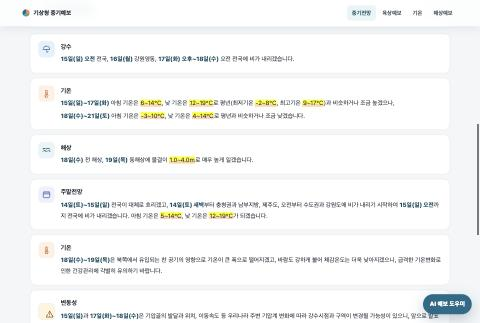
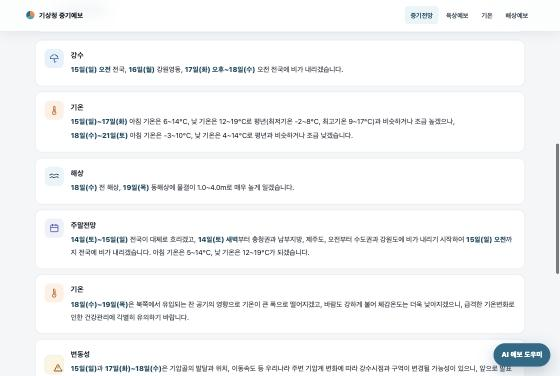
기후테크 프로젝트 중급: 중기전망 형광펜 효과 삭제
- 숫자 범위 형광펜과 관련 스타일·애니메이션 제거, 날짜 굵게 표시만 유지
- README·VERIFICATION·스크린샷 갱신

diff --git a/static/styles.css b/static/styles.css
@@ -95,14 +95,12 @@ nav{display:flex;gap:.25rem}nav a{text-decoration:none;color:#4d5964;padding:.55
 .chart-wrap{position:relative}
 .guide{stroke:#17212b;stroke-width:1;stroke-dasharray:3 3;opacity:0;transition:opacity .15s}.col:hover .guide{opacity:.45}.hit{fill:transparent;cursor:crosshair}
 .tip{position:absolute;transform:translateX(-50%);background:#17212b;color:#fff;font-size:.78rem;font-weight:700;padding:.45rem .65rem;border-radius:8px;white-space:nowrap;pointer-events:none;box-shadow:0 8px 24px rgba(0,0,0,.18);z-index:2}
-/* 중기전망 주제 카드 + 형광펜 */
+/* 중기전망 주제 카드 */
 .ol-grid{display:grid;gap:.75rem;margin-bottom:.5rem}
 .ol-card{display:grid;grid-template-columns:auto 1fr;gap:1rem;background:#fff;border:1px solid var(--line);border-radius:16px;padding:1.2rem 1.3rem}
 .ol-icon{width:44px;height:44px;border-radius:12px;display:grid;place-items:center;background:#e9f4f6;color:var(--blue-dark)}.ol-icon .ui-ic{width:24px;height:24px}
 .ol-icon.umbrella{background:#e6f0fa;color:#1f6fae}.ol-icon.thermo{background:#fff1e6;color:#c4621d}.ol-icon.calendar{background:#eef0fb;color:#4a52a8}.ol-icon.alert{background:#fff4df;color:#9a5b12}
 .ol-body h3{margin:.1rem 0 .35rem;font-size:1.05rem}.ol-body p{margin:.2rem 0;line-height:1.85}
-mark.hl{background-image:linear-gradient(transparent 58%,#ffe58a 58%);background-repeat:no-repeat;background-size:100% 100%;color:inherit;padding:0 .1em;border-radius:2px}
-mark.hl-num{background-image:linear-gradient(transparent 58%,#ffd3b0 58%)}
 /* 버튼·카운트다운·헤더 */
 .primary{display:inline-flex;align-items:center;justify-content:center;gap:.45rem;transition:background .2s,transform .15s var(--ease)}.primary:active{transform:scale(.97)}
 .btn-ic{width:17px;height:17px;fill:none;stroke:currentColor;stroke-width:2.2;stroke-linecap:round;stroke-linejoin:round}
@@ -120,7 +118,6 @@ mark.hl-num{background-image:linear-gradient(transparent 58%,#ffd3b0 58%)}
   .enter .gauge-fill,.enter .wave-fill{animation:growX .8s var(--ease) both;animation-delay:calc(var(--i,0)*45ms + 250ms)}
   .reveal{opacity:0;transform:translateY(14px);transition:opacity .6s var(--ease),transform .6s var(--ease)}.reveal.in{opacity:1;transform:none}
   .ol-card.reveal{transition-delay:calc(var(--i)*70ms)}
-  mark.hl{transition:background-size .9s var(--ease) .35s}.reveal:not(.in) mark.hl{background-size:0% 100%}
   .tabpanel.swap{animation:fadeUp .35s var(--ease)}
   .acc[open] .acc-body{animation:fadeUp .35s var(--ease)}
   .primary.loading .btn-ic{animation:spin .8s linear infinite}

diff --git a/static/app.js b/static/app.js
@@ -368,11 +368,10 @@ function parseOutlook(text){
   }
   return secs;
 }
-// 원문에 이미 있는 표현만 강조한다: 날짜는 굵게, 기온·물결 등 숫자 범위에만 형광펜(이스케이프한 뒤 적용).
+// 원문에 이미 있는 날짜 표현만 굵게 표시한다(이스케이프한 뒤 적용). 문장은 바꾸지 않는다.
 function highlight(escaped){
   return escaped
-    .replace(/(\d{1,2}일\([월화수목금토일]\)(?:\s*(?:오전|오후|새벽|아침|낮|밤))?(?:\s*~\s*\d{1,2}일\([월화수목금토일]\))?)/g,'<strong class="dt">$1</strong>')
-    .replace(/(-?\d+(?:\.\d+)?\s*~\s*-?\d+(?:\.\d+)?\s*(?:℃|°C|mm|m)(?![a-z]))/g,'<mark class="hl hl-num">$1</mark>');
+    .replace(/(\d{1,2}일\([월화수목금토일]\)(?:\s*(?:오전|오후|새벽|아침|낮|밤))?(?:\s*~\s*\d{1,2}일\([월화수목금토일]\))?)/g,'<strong class="dt">$1</strong>');
 }
 function renderOutlook(r){
   const text=r.data?.text;
@@ -382,7 +381,7 @@ function renderOutlook(r){
     const secs=parseOutlook(text);
     body=`<div class="ol-grid">${secs.map((s,i)=>{const icon=(TOPIC_ICON.find(([re])=>re.test(s.topic))||[null,"info"])[1];
       return `<article class="ol-card reveal" style="--i:${i}"><div class="ol-icon ${icon}">${ui(icon)}</div><div class="ol-body"><h3>${esc(s.topic)}</h3>${s.lines.map(l=>`<p>${highlight(esc(l))}</p>`).join("")}</div></article>`;}).join("")}</div>
-    <p class="small">기상청 원문을 표시(○, *) 기준으로 주제별 카드로 나눈 것입니다. 문장은 바꾸지 않았고, 원문에 있는 날짜는 굵게, 숫자 범위에만 형광펜을 칠했습니다. 수치 그래프로 바꾸지 않습니다.</p>
+    <p class="small">기상청 원문을 표시(○, *) 기준으로 주제별 카드로 나눈 것입니다. 문장은 바꾸지 않았고, 원문에 있는 날짜만 굵게 표시했습니다. 수치 그래프로 바꾸지 않습니다.</p>
     <details class="acc raw"><summary>${ui("doc")}원문 전체 그대로 보기</summary><div class="acc-body"><p class="outlook-text">${esc(text)}</p></div></details>`;
   }
   $("results").innerHTML=metaPanel(r)+body+rawDetails(r);

diff --git a/static/index.html b/static/index.html
@@ -5,7 +5,7 @@
   <meta name="viewport" content="width=device-width,initial-scale=1">
   <meta name="description" content="기상청 중기예보 네 기능을 지역별로 조회하고 그래프와 표로 확인합니다.">
   <title>기상청 중기예보</title>
-  <link rel="stylesheet" href="/styles.css?v=29">
+  <link rel="stylesheet" href="/styles.css?v=31">
 </head>
 <body>
   <a class="skip" href="#main">본문으로 건너뛰기</a>
@@ -85,6 +85,6 @@
   </aside>
   <footer>출처: 기상청 중기예보 조회서비스 · 공공데이터포털</footer>
   <script src="/combo.js?v=30" defer></script>
-  <script src="/app.js?v=29" defer></script>
+  <script src="/app.js?v=31" defer></script>
 </body>
 </html>

diff --git a/README.md b/README.md
@@ -211,14 +211,14 @@ GEMINI_MODEL=gemini-3.8-flash
 | 페이지 | 구성 |
 |---|---|
 | 공통 | 발표·기간·코드 비교를 칩 한 줄로 요약, 응답 값 중 최댓값·최솟값을 고른 요약 카드 3개, 상세 설명은 '조회 정보 자세히' 아코디언, 그래프와 수치표는 탭으로 전환 |
-| 중기전망 | 원문의 `○ (강수)`·`(기온)`·`(해상)`·`(주말전망)`·`* (변동성)` 표시 기준으로 주제 카드를 나누고 아이콘을 붙임. 문장은 그대로, 날짜는 굵게, 숫자 범위에만 형광펜. 원문 전체 보기 제공 |
+| 중기전망 | 원문의 `○ (강수)`·`(기온)`·`(해상)`·`(주말전망)`·`* (변동성)` 표시 기준으로 주제 카드를 나누고 아이콘을 붙임. 문장은 그대로, 원문에 있는 날짜만 굵게. 원문 전체 보기 제공 |
 | 육상예보 | 날짜별 타임라인(오전·오후 / 하루) + 날씨 아이콘 + 강수확률 게이지, 강수확률 막대그래프 |
 | 기온 | 날짜별 '최저~최고' 범위 막대(파랑→주황) 그래프 |
 | 해상예보 | 날짜별 타임라인 + 날씨 아이콘 + 예상파고 범위 막대. 1.5m·3m 색 구분은 이 앱의 표시 기준이며 공식 특보 기준이 아님 |
 
 - 날씨 아이콘은 가이드 '하늘상태' 문구(맑음, 구름많음, 흐림 및 비·눈·비/눈·소나기 조합)와 정확히 같을 때만 표시하고, 원문 글자를 항상 함께 둡니다. 목록에 없는 문구에는 아이콘을 붙이지 않습니다.
 - 그래프에서 날짜 칸에 마우스를 올리거나 터치하면 안내선과 값 말풍선이 나옵니다.
-- 움직임(나타나기, 막대 자라기, 숫자 올라가기, 형광펜)은 처음 표시·지역 변경·새 발표 자료 반영 때만 실행됩니다. 30초 자동 확인에서 값이 같으면 화면을 다시 그리지 않아 선택한 탭과 열린 아코디언이 유지됩니다.
+- 움직임(나타나기, 막대 자라기, 숫자 올라가기)은 처음 표시·지역 변경·새 발표 자료 반영 때만 실행됩니다. 30초 자동 확인에서 값이 같으면 화면을 다시 그리지 않아 선택한 탭과 열린 아코디언이 유지됩니다.
 - 운영체제의 '동작 줄이기' 설정을 켜면 모든 애니메이션이 꺼집니다.
 - 쓰지 않은 효과(커서 효과, 3D 틸트, 마키, 타이핑·스크램블 텍스트, 패럴렉스 등)는 정보 읽기에 도움이 되지 않거나 숫자를 늦게·흐리게 보여 주므로 제외했습니다.
 

diff --git a/VERIFICATION.md b/VERIFICATION.md
@@ -108,7 +108,7 @@
 
 - [실제 API] 2026-11-11 06시 발표본으로 네 페이지 확인: 육상 11B00000 7일·11구간·아이콘 11개, 기온 11A00101 7일 범위 막대, 해상 12A20000 11구간(11/18 2~4m가 '3m 이상' 색), 전망 108 주제 카드 6개.
 - [실행] 요약 카드 값이 응답의 최댓값·최솟값과 일치(예: 육상 최고 60%, 비·눈 3/11구간, 기온 최고 13℃·최저 5℃).
-- [실행] 전망 카드의 글자를 모두 이어 붙이면 원문(표시 기호·공백 제외)과 정확히 같음. 형광펜 9곳(숫자 범위), 날짜 굵게 13곳.
+- [실행] 전망 카드의 글자를 모두 이어 붙이면 원문(표시 기호·공백 제외)과 정확히 같음. 날짜 굵게 13곳. (형광펜은 어색해서 이후 삭제함)
 - [실행] 아이콘 대응: 공식 문구 5종 정상, `구름많음 비`·`구름만음`(가이드 예제 오타)·빈 값은 아이콘 없음.
 - [실행] 그래프 말풍선 값이 데이터와 일치(예: 11/15 오전 · 흐리고 비 · 강수확률 60%).
 - [실행] 수치표 탭을 고른 뒤 30초 자동 확인이 지나도 화면을 다시 그리지 않고 탭 선택이 유지됨.
